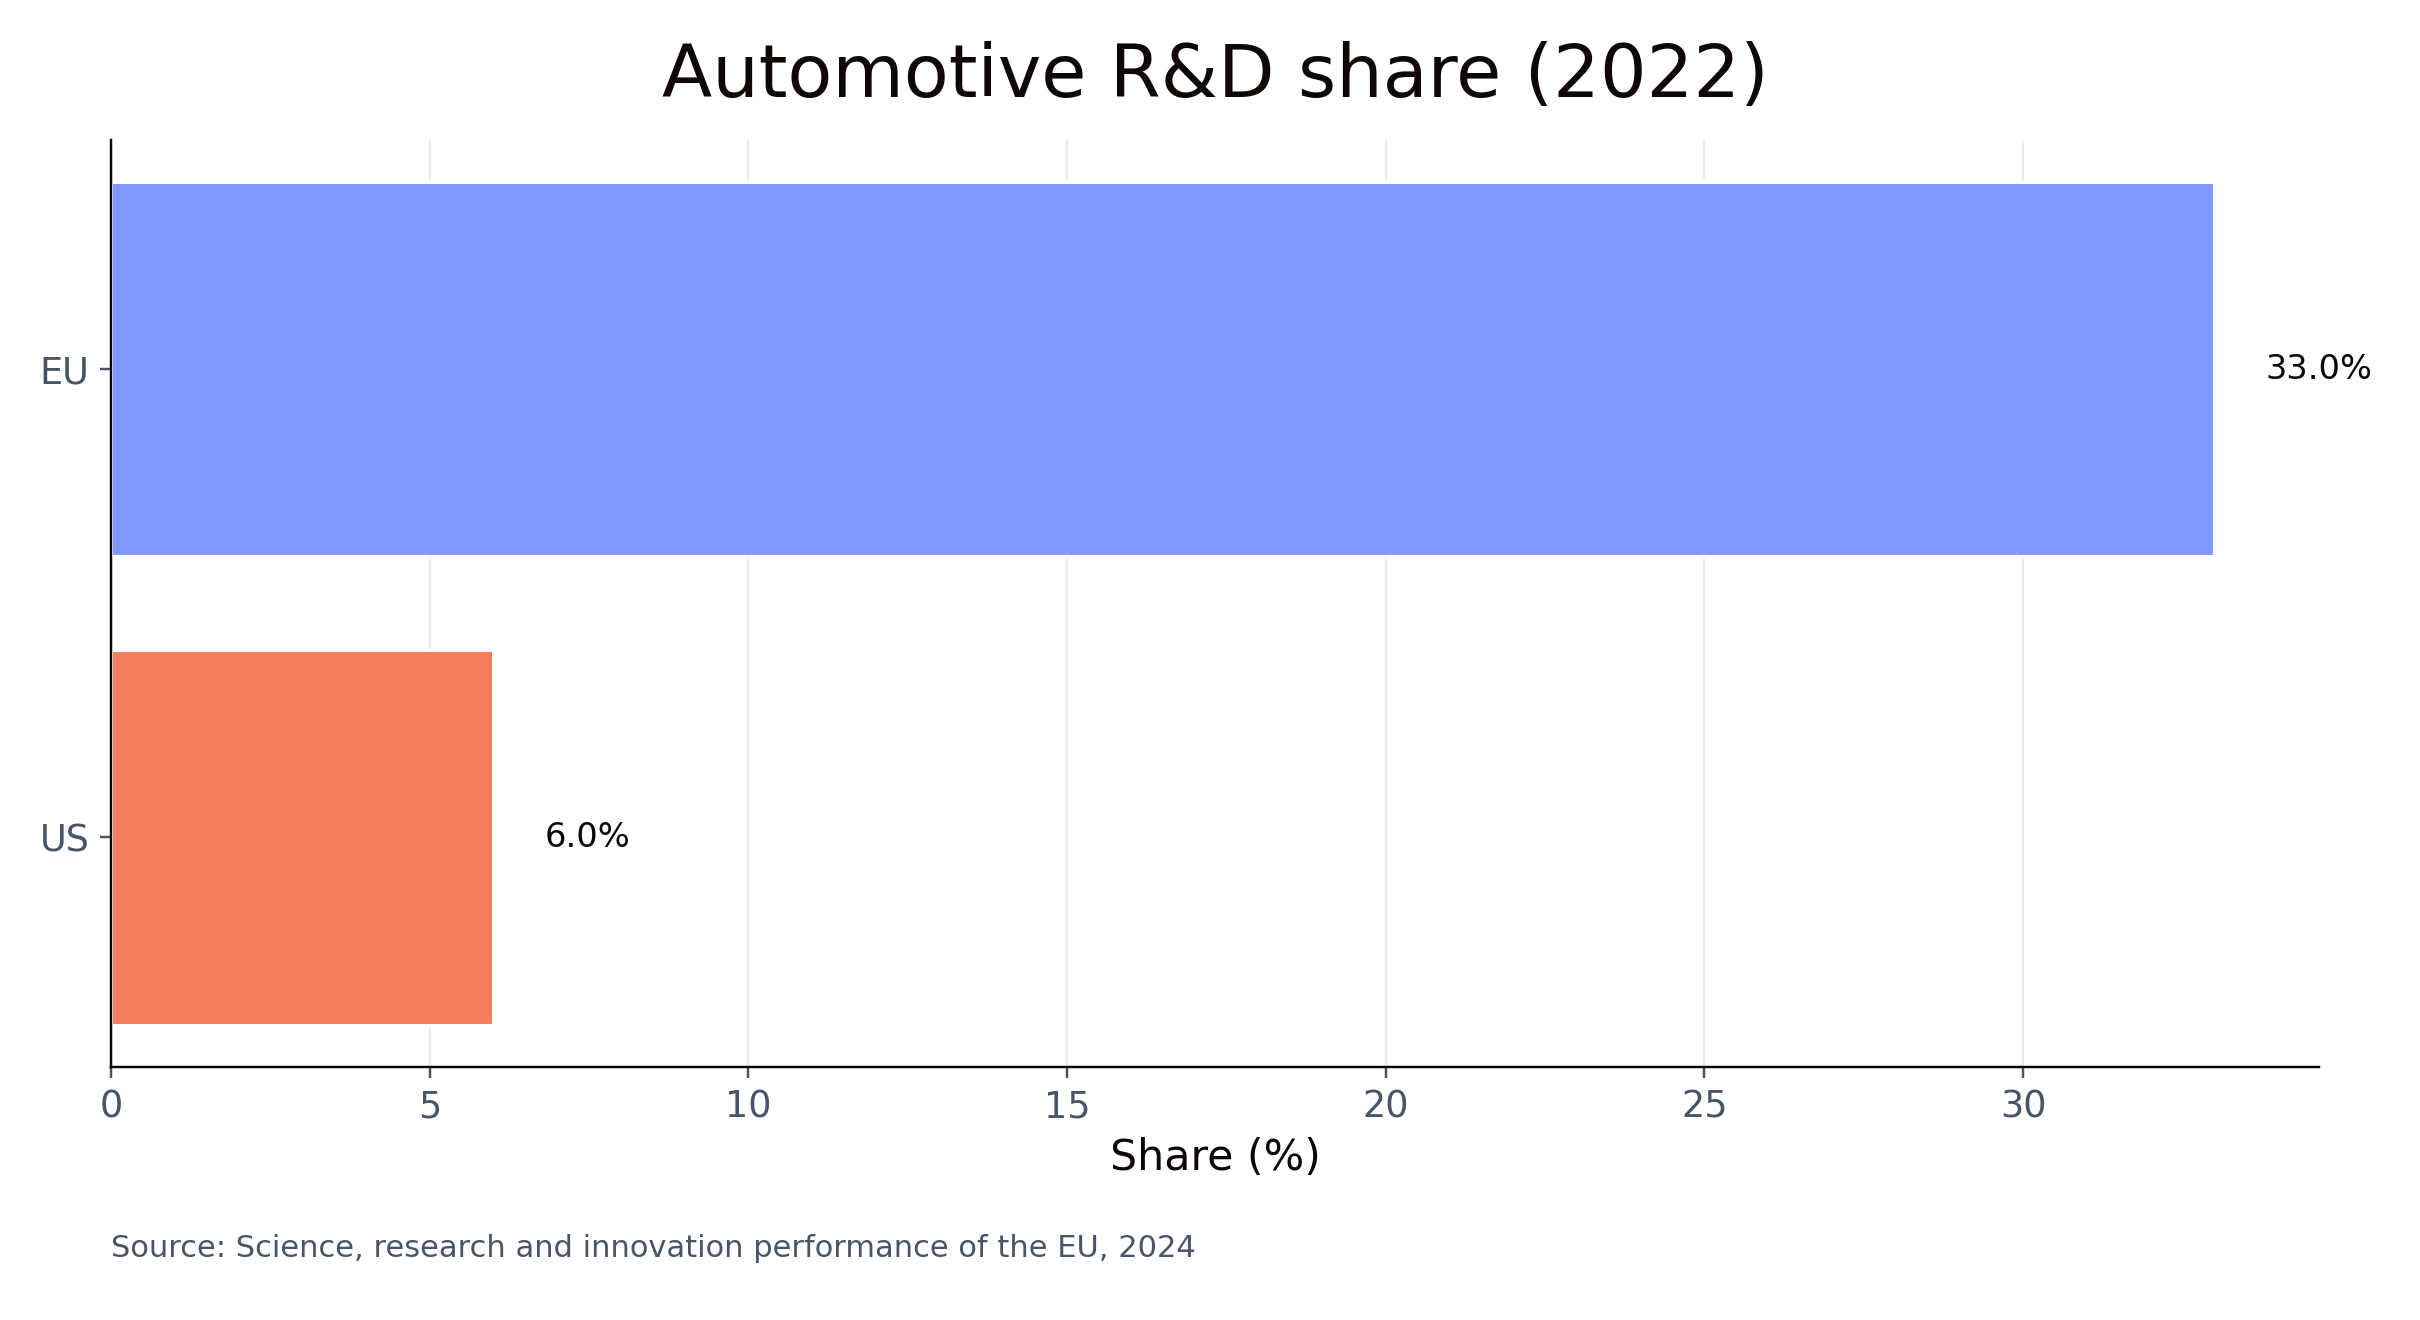
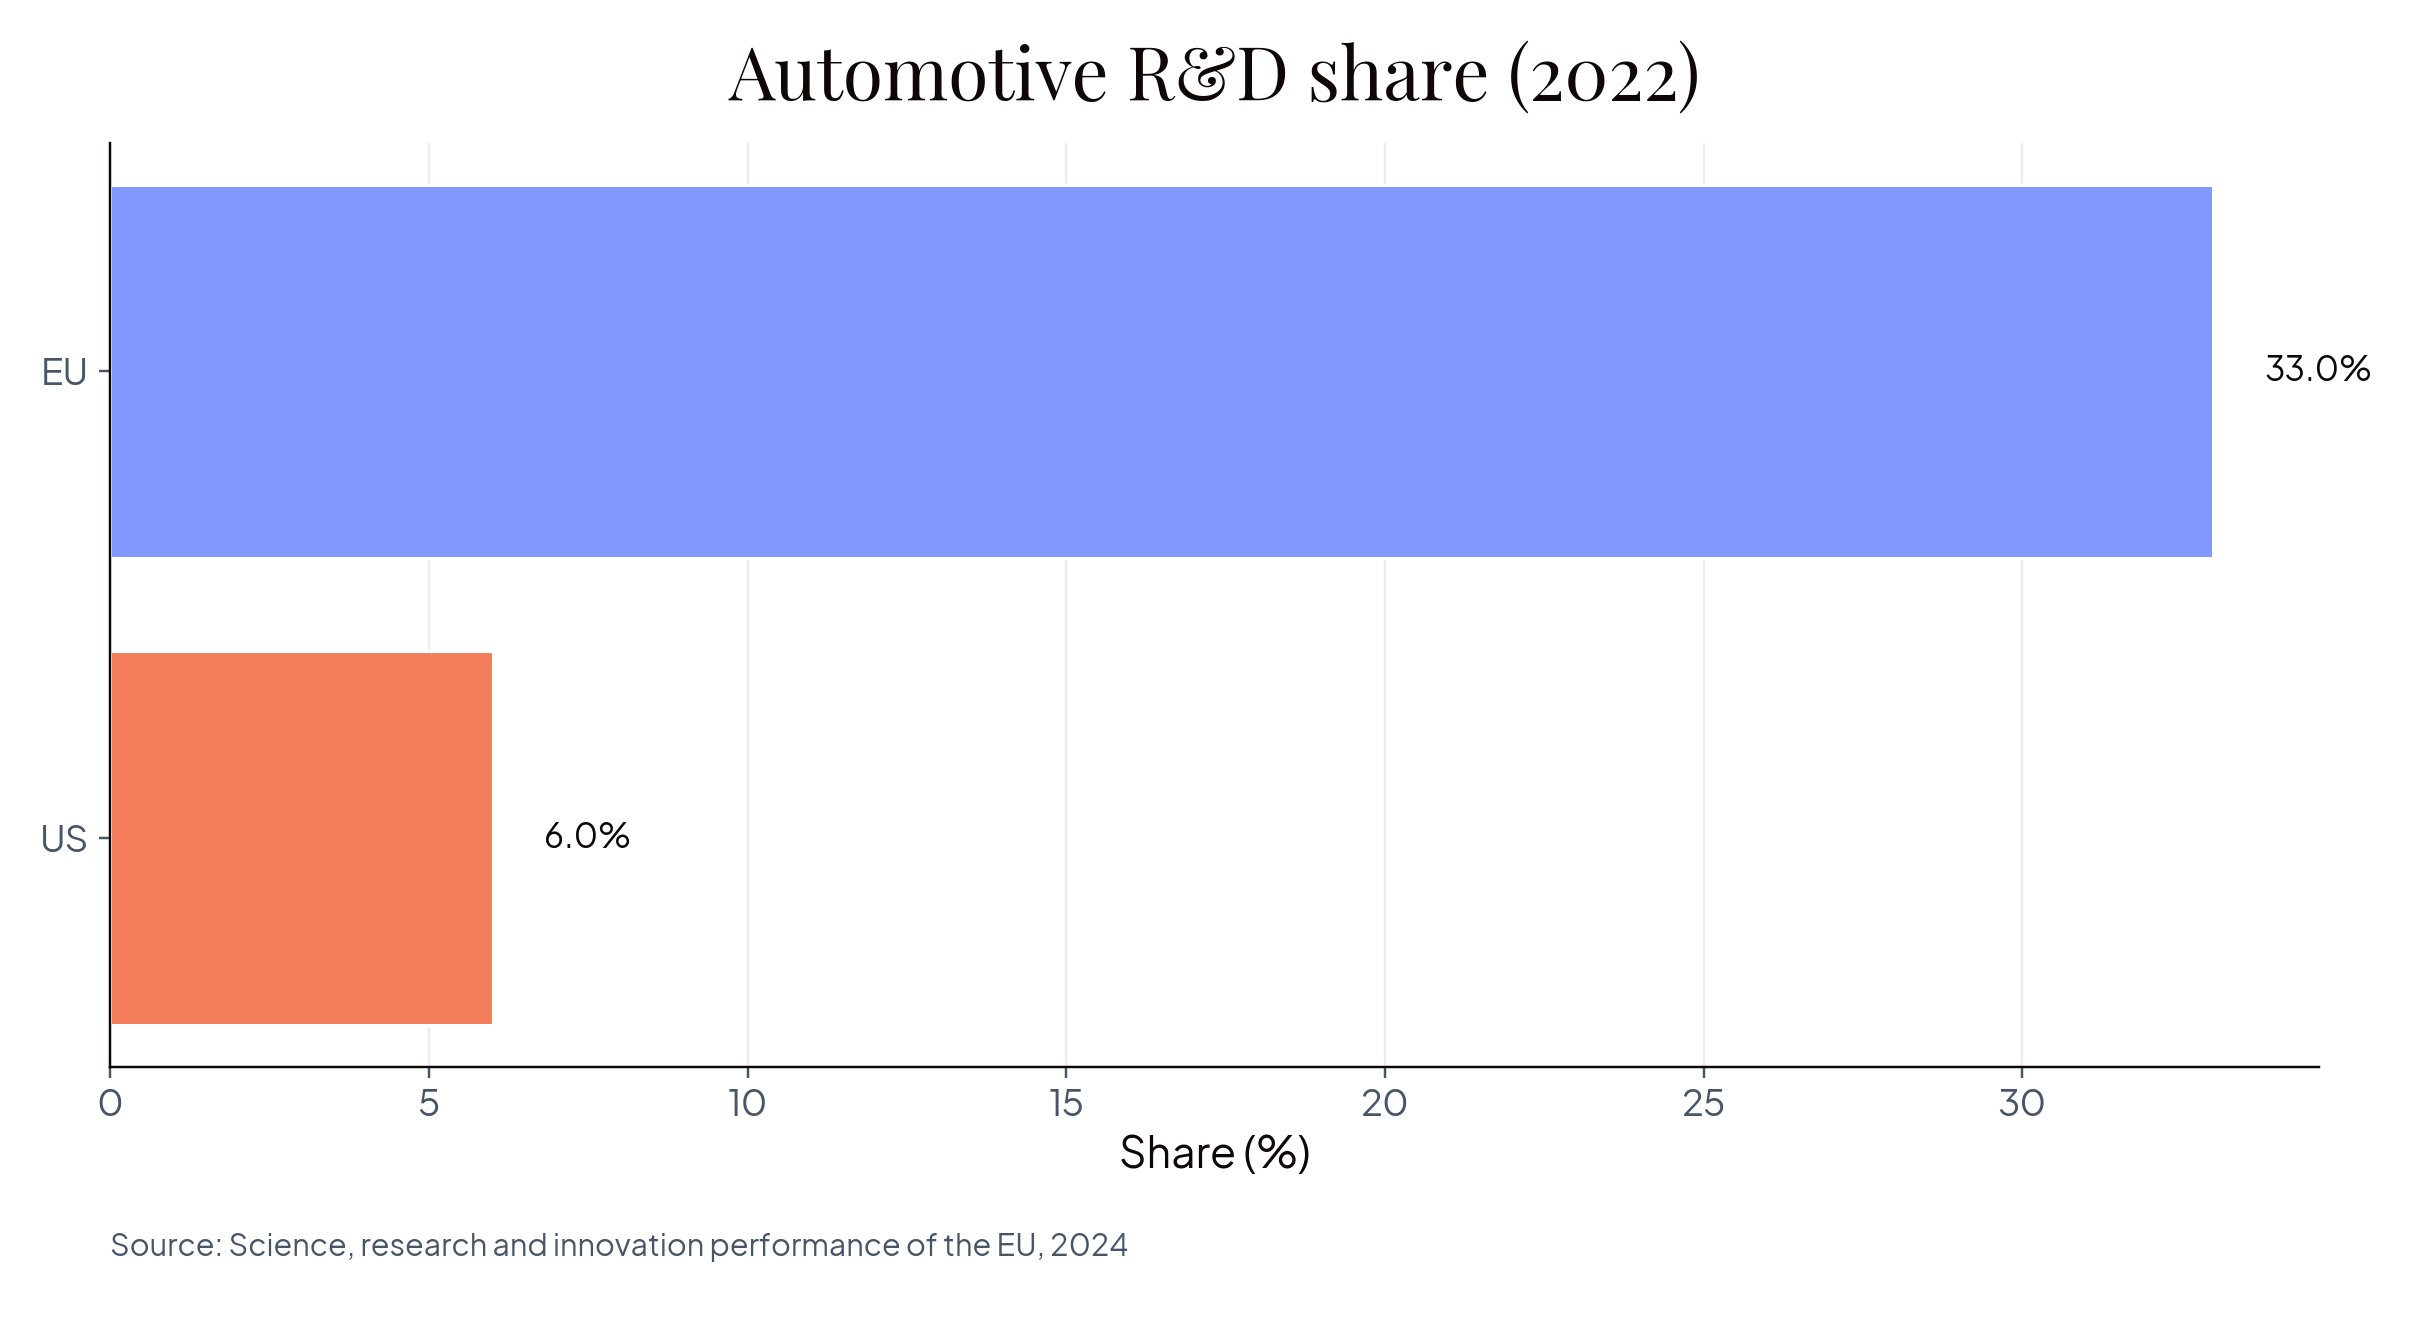
Update chart scripts, add funders graphs, and ignore local assets

diff --git a/index.html b/index.html
@@ -885,7 +885,7 @@
                 </div>
                 <h2>We are spending less than our peers</h2>
                 <div style="display: flex; justify-content: center; margin-top: 0.3em;">
-                    <img src="graphs/science_report/rd_i_intensity.png" alt="R&amp;D intensity: EU 2.2% GDP, lowest among major economies" style="max-height: 460px; max-width: 100%; object-fit: contain; border-radius: 4px;">
+                    <img src="graphs/science_report/r_d_spending.png" alt="R&amp;D spending by country comparison" style="max-height: 460px; max-width: 100%; object-fit: contain; border-radius: 4px;">
                 </div>
                 <p class="small-text" style="margin-top: 0.2em;">Source: Heitor Report &mdash; Align Act Accelerate, Sept 2024</p>
             </section>

diff --git a/plot_science_funders_overview.py b/plot_science_funders_overview.py
@@ -1,0 +1,189 @@
+from pathlib import Path
+import re
+
+import matplotlib.font_manager as fm
+import matplotlib.pyplot as plt
+import pandas as pd
+
+
+COLORS = {
+    "blue": "#8098FF",
+    "red": "#F47D5B",
+    "green_dark": "#7cb668",
+    "purple": "#A09AC8",
+    "black": "#0E0705",
+}
+
+CATEGORY_COLORS = {
+    "EU": COLORS["blue"],
+    "US Government": COLORS["red"],
+    "US Philanthropy": COLORS["green_dark"],
+}
+
+TITLE_SIZE = 24
+AXIS_LABEL_SIZE = 14
+TICK_LABEL_SIZE = 12
+VALUE_LABEL_SIZE = 11
+LEGEND_SIZE = 11
+
+
+def pick_fonts():
+    local_font_dirs = [
+        Path("fonts/plus-jakarta-sans"),
+        Path("fonts/playfair-display"),
+        Path("fonts"),
+    ]
+    for local_font_dir in local_font_dirs:
+        if not local_font_dir.exists():
+            continue
+        for pattern in ("*.ttf", "*.otf"):
+            for font_file in local_font_dir.rglob(pattern):
+                try:
+                    fm.fontManager.addfont(str(font_file))
+                except Exception:
+                    pass
+
+    names = sorted({f.name for f in fm.fontManager.ttflist})
+    lower_map = {n.lower(): n for n in names}
+
+    def match_font(candidates, fallback):
+        for c in candidates:
+            if c.lower() in lower_map:
+                return lower_map[c.lower()]
+        for c in candidates:
+            c_low = c.lower()
+            for n in names:
+                if c_low in n.lower():
+                    return n
+        return fallback
+
+    body = match_font(["Plus Jakarta Sans", "PlusJakartaSans"], "DejaVu Sans")
+    title = match_font(["Playfair Display", "PlayfairDisplay"], body)
+    return body, title
+
+
+def style_axes(ax, grid_axis="x"):
+    ax.set_facecolor("none")
+    ax.set_axisbelow(True)
+    ax.grid(axis=grid_axis, color="#e8e8ec", linestyle="-", linewidth=0.8, alpha=0.8, zorder=0)
+    ax.spines["top"].set_visible(False)
+    ax.spines["right"].set_visible(False)
+    ax.spines["left"].set_color(COLORS["black"])
+    ax.spines["bottom"].set_color(COLORS["black"])
+    ax.tick_params(colors="#475569", labelsize=TICK_LABEL_SIZE)
+
+
+def euro_label(v):
+    if v >= 1_000_000_000:
+        return f"EUR {v / 1_000_000_000:.1f}B"
+    return f"EUR {v / 1_000_000:.0f}M"
+
+
+def clean_name(name):
+    return re.sub(r"\s+", " ", str(name)).strip()
+
+
+def save_plot(fig, out_path):
+    fig.patch.set_alpha(0.0)
+    fig.savefig(out_path, dpi=220, transparent=True)
+    plt.close(fig)
+    print(f"Saved: {out_path}")
+
+
+def plot_program_spending(df, out_dir, title_font):
+    d = df.sort_values("Spending in Euros", ascending=False).copy()
+    d["Program"] = d["Program"].map(clean_name)
+    colors = [CATEGORY_COLORS.get(c, COLORS["purple"]) for c in d["Category"]]
+
+    fig, ax = plt.subplots(figsize=(13, 8))
+    bars = ax.barh(d["Program"], d["Spending in Euros"], color=colors, edgecolor="white", linewidth=1.0)
+    ax.invert_yaxis()
+
+    pad = d["Spending in Euros"].max() * 0.01
+    for b, val in zip(bars, d["Spending in Euros"]):
+        ax.text(val + pad, b.get_y() + b.get_height() / 2, euro_label(val), va="center", fontsize=VALUE_LABEL_SIZE, color=COLORS["black"])
+
+    ax.set_title("Science Funding by Program (Annual, EUR)", fontsize=TITLE_SIZE, color=COLORS["black"], fontname=title_font, pad=14)
+    ax.set_xlabel("Annual Spending (EUR)", fontsize=AXIS_LABEL_SIZE, color=COLORS["black"])
+    style_axes(ax, grid_axis="x")
+
+    legend_handles = [
+        plt.Line2D([0], [0], marker="s", linestyle="", markersize=10, markerfacecolor=CATEGORY_COLORS[k], markeredgecolor="white", label=k)
+        for k in ["EU", "US Government", "US Philanthropy"]
+        if k in d["Category"].unique()
+    ]
+    ax.legend(handles=legend_handles, frameon=True, facecolor="white", edgecolor="#e2e0e8", fontsize=LEGEND_SIZE, loc="lower right")
+    plt.tight_layout()
+    save_plot(fig, out_dir / "funders_spending_by_program.png")
+
+
+def plot_category_totals(df, out_dir, title_font):
+    d = (
+        df.groupby("Category", as_index=False)["Spending in Euros"]
+        .sum()
+        .sort_values("Spending in Euros", ascending=False)
+    )
+    colors = [CATEGORY_COLORS.get(c, COLORS["purple"]) for c in d["Category"]]
+
+    fig, ax = plt.subplots(figsize=(11, 6.5))
+    bars = ax.bar(d["Category"], d["Spending in Euros"], color=colors, edgecolor="white", linewidth=1.0)
+
+    for b, val in zip(bars, d["Spending in Euros"]):
+        ax.text(b.get_x() + b.get_width() / 2, val, euro_label(val), ha="center", va="bottom", fontsize=VALUE_LABEL_SIZE, color=COLORS["black"])
+
+    ax.set_title("Total Annual Science Funding by Category (EUR)", fontsize=TITLE_SIZE, color=COLORS["black"], fontname=title_font, pad=14)
+    ax.set_ylabel("Annual Spending (EUR)", fontsize=AXIS_LABEL_SIZE, color=COLORS["black"])
+    style_axes(ax, grid_axis="y")
+    plt.tight_layout()
+    save_plot(fig, out_dir / "funders_spending_by_category.png")
+
+
+def plot_us_breakdown(df, out_dir, title_font):
+    d = df[df["Category"] == "US Government"].sort_values("Spending in Euros", ascending=False).copy()
+    d["Program"] = d["Program"].map(clean_name)
+
+    fig, ax = plt.subplots(figsize=(12, 6.5))
+    bars = ax.barh(d["Program"], d["Spending in Euros"], color=COLORS["red"], edgecolor="white", linewidth=1.0)
+    ax.invert_yaxis()
+
+    pad = d["Spending in Euros"].max() * 0.012
+    for b, val in zip(bars, d["Spending in Euros"]):
+        ax.text(val + pad, b.get_y() + b.get_height() / 2, euro_label(val), va="center", fontsize=VALUE_LABEL_SIZE, color=COLORS["black"])
+
+    ax.set_title("US Government Science Funders (Annual, EUR)", fontsize=TITLE_SIZE, color=COLORS["black"], fontname=title_font, pad=14)
+    ax.set_xlabel("Annual Spending (EUR)", fontsize=AXIS_LABEL_SIZE, color=COLORS["black"])
+    style_axes(ax, grid_axis="x")
+    plt.tight_layout()
+    save_plot(fig, out_dir / "us_government_funders_breakdown.png")
+
+
+def main():
+    source = Path("data/science_funders_overview.ods")
+    out_dir = Path("graphs/science_funders")
+    out_dir.mkdir(parents=True, exist_ok=True)
+
+    body_font, title_font = pick_fonts()
+    plt.rcParams.update(
+        {
+            "font.family": body_font,
+            "font.size": TICK_LABEL_SIZE,
+            "axes.titlesize": TITLE_SIZE,
+            "axes.labelsize": AXIS_LABEL_SIZE,
+            "legend.fontsize": LEGEND_SIZE,
+        }
+    )
+
+    df = pd.read_excel(source, engine="odf")
+    df.columns = [str(c).strip() for c in df.columns]
+    df["Program"] = df["Program"].astype(str).str.strip()
+    df["Category"] = df["Category"].astype(str).str.strip()
+    df["Spending in Euros"] = pd.to_numeric(df["Spending in Euros"], errors="coerce")
+    df = df.dropna(subset=["Program", "Category", "Spending in Euros"]).copy()
+
+    plot_program_spending(df, out_dir, title_font)
+    plot_category_totals(df, out_dir, title_font)
+    plot_us_breakdown(df, out_dir, title_font)
+
+
+if __name__ == "__main__":
+    main()

diff --git a/plot_science_report_graphs.py b/plot_science_report_graphs.py
@@ -46,8 +46,14 @@ SOURCE_SIZE = 10
 
 
 def pick_fonts():
-    local_font_dir = Path("fonts")
-    if local_font_dir.exists():
+    local_font_dirs = [
+        Path("fonts/plus-jakarta-sans"),
+        Path("fonts/playfair-display"),
+        Path("fonts"),
+    ]
+    for local_font_dir in local_font_dirs:
+        if not local_font_dir.exists():
+            continue
         for pattern in ("*.ttf", "*.otf"):
             for font_file in local_font_dir.rglob(pattern):
                 try:
